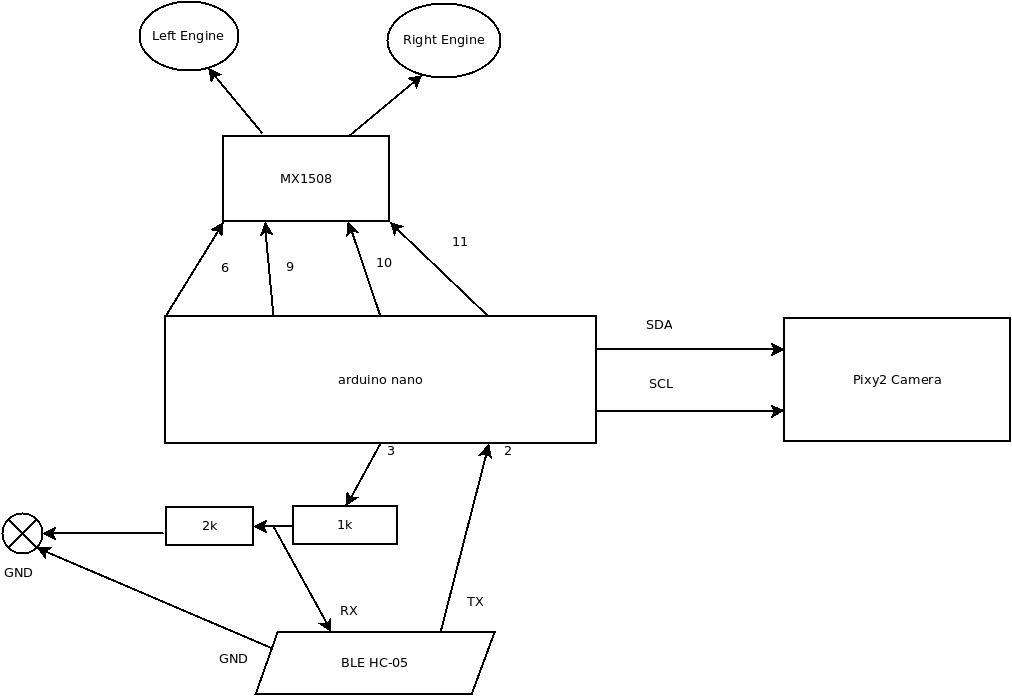
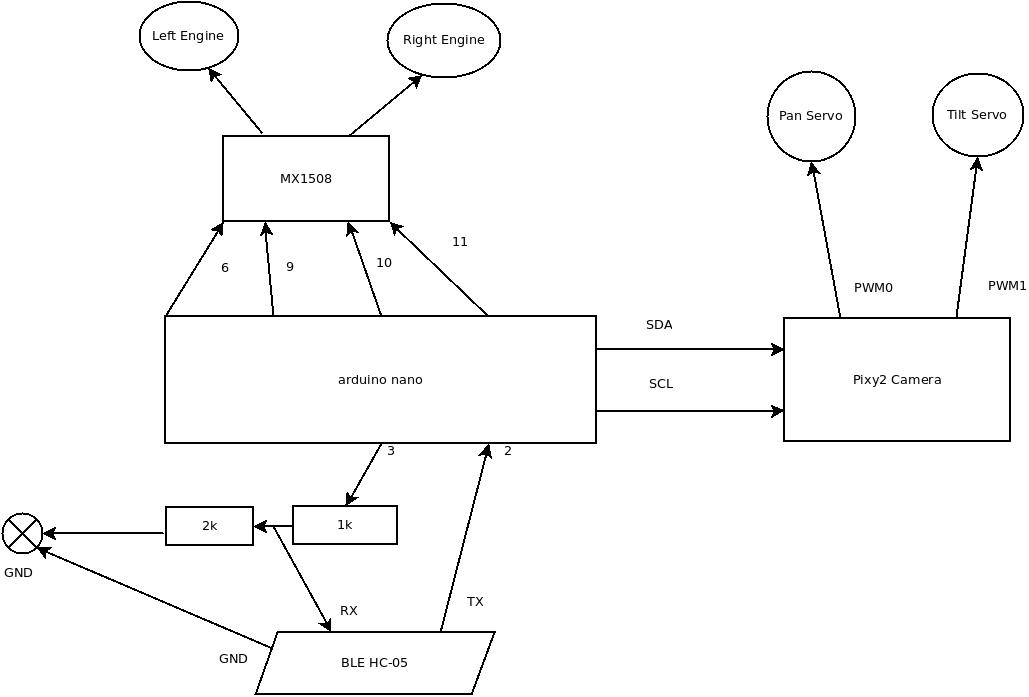
new versions to be ready for android app

diff --git a/tracking/communications.cpp b/tracking/communications.cpp
@@ -49,9 +49,7 @@ void initCommunications() {
   enableInterrupt(RxD, neoSSerial1ISR, CHANGE); 
 }
 
-static void makeCleanup() {
-  BTSerial.println("OK");
-  BTSerial.flush();
+static void makeCleanup() {  
   for (index = 0; index < 20; index++) {
     inData[index] = '\0';
   }
@@ -59,9 +57,14 @@ static void makeCleanup() {
   inChar ='0';
 }
 
+static void sendOK() {
+  BTSerial.println("OK");
+  BTSerial.flush();
+}
+
 void printMenuOnBLE() {
   BTSerial.println( "MENU:" );
-  BTSerial.println( "h# print this menu");
+  BTSerial.println( "h# print menu");
   BTSerial.println( "S# Start" );
   BTSerial.println( "s# Stop" );
   BTSerial.println( "T# tracking on");
@@ -69,9 +72,12 @@ void printMenuOnBLE() {
   BTSerial.println( "L# lamp on/off");
   BTSerial.println( "E# engine pan tracking on/off");
   BTSerial.println( "pxx# horizontal position of camera");
-  BTSerial.println( "Pxx# Kp");
-  BTSerial.println( "Ixx# Ki");
-  BTSerial.println( "Dxx# Kd");
+  BTSerial.println( "Pxx# set Kp");
+  BTSerial.println( "P# get Kp");
+  BTSerial.println( "Ixx# set Ki");
+  BTSerial.println( "I# get Ki");
+  BTSerial.println( "Dxx# set Kd");
+  BTSerial.println( "D# get Kd");
 }
 
 
@@ -93,53 +99,74 @@ static void makeMove(const char *data) {
   } else {
      return;
   }
-  if (strcmp(realData,"s") == 0) {
+  if (strlen(realData) == 1) {
+    if (realData[0] == 's') {
 #ifdef BLE_DEBUG_MODE
-    BTSerial.println("stop");
+      BTSerial.println("stop");
 #endif
-    go(0,0);
-    isStopped = true;
-  } else if (strcmp(realData,"S") == 0) {
+      go(0,0);
+      isStopped = true;
+      sendOK();
+    } else if (realData[0] == 'S') {
 #ifdef BLE_DEBUG_MODE
-    BTSerial.println("Start");
+      BTSerial.println("Start");
 #endif
-    go(0,0);
-    isStopped = false;
-  } else if(strcmp(realData,"t") == 0) {
+      go(0,0);
+      isStopped = false;
+      sendOK();
+    } else if(realData[0] == 't') {
 #ifdef BLE_DEBUG_MODE
-    BTSerial.println("Tracking off");
+      BTSerial.println("Tracking off");
 #endif
-    isTracking = false;
-  } else if(strcmp(realData,"T") == 0) {
+      isTracking = false;
+      sendOK();
+    } else if( realData[0] == 'T') {
 #ifdef BLE_DEBUG_MODE
-    BTSerial.println("Tracking on");
+      BTSerial.println("Tracking on");
 #endif
-    lastError = 0;
-    integration = 0;
-    isTracking = true;
-  } else if (strcmp(realData,"h") == 0) {
-    printMenuOnBLE();
-  } else if (strcmp(realData,"L") == 0) {
-    if (isLampOn) {
-      // Turn off both laps upper and lower
-      pixy.setLamp(0, 0);
-    } else {
-      pixy.setLamp(1,1);
+      lastError = 0;
+      integration = 0;
+      isTracking = true;
+      sendOK();
+    } else if (realData[0] == 'h') {
+      printMenuOnBLE();
+    } else if (realData[0] =='L') {
+      if (isLampOn) {
+        // Turn off both laps upper and lower
+        pixy.setLamp(0, 0);
+      } else {
+        pixy.setLamp(1,1);
+      }
+      isLampOn = !isLampOn;
+      sendOK();
+    } else if (realData[0] == 'E') {
+      isEngineTracking = !isEngineTracking;
+#ifdef BLE_DEBUG_MODE
+      if (isEngineTracking)
+        BTSerial.println("Engine tracking on");
+      else
+        BTSerial.println("Engine tracking off");
+#endif
+      sendOK();
+    } else if ( realData[0] == 'P') {
+      BTSerial.println(Kp);
+      BTSerial.flush();
+      return;
+    } else if ( realData[0] == 'I') {
+      BTSerial.println(Ki);
+      BTSerial.flush();
+      return;
+    } else if ( realData[0] == 'D') {
+      BTSerial.println(Kd);
+      BTSerial.flush();
+      return;
     }
-    isLampOn = !isLampOn;
-  } else if (strcmp(realData,"E") == 0) {
-    isEngineTracking = !isEngineTracking;
-#ifdef BLE_DEBUG_MODE
-    if (isEngineTracking)
-      BTSerial.println("Engine tracking on");
-    else
-      BTSerial.println("Engine tracking off");
-#endif
-  }else if (strlen(realData) > 1) {
+  } else { //commands with data
     if (realData[0] == 'p') {
       //remove p from command
       realData++;
       if (!isValidNumber(realData)) {
+        sendOK();
         return;
       }
       tempIValue = atoi(realData);
@@ -147,6 +174,7 @@ static void makeMove(const char *data) {
           pixy.setServos(tempIValue,500);
           panServoPos = tempIValue;
       } else {
+        sendOK();
         return;
       }
     } else if (realData[0] == 'P') {
@@ -161,6 +189,7 @@ static void makeMove(const char *data) {
       integration = 0;
       tiltLoop.reset();
       pixy.setServos(panServoPos, tiltLoop.m_command);
+      sendOK();
     } else if (realData[0] == 'D') {
       //remove D from command
       realData++;
@@ -173,6 +202,7 @@ static void makeMove(const char *data) {
       integration = 0;
       tiltLoop.reset();
       pixy.setServos(panServoPos, tiltLoop.m_command);
+      sendOK();
     } else if (realData[0] == 'I') {
       //remove I from command
       realData++;
@@ -185,6 +215,7 @@ static void makeMove(const char *data) {
       integration = 0;
       tiltLoop.reset();
       pixy.setServos(panServoPos, tiltLoop.m_command);
+      sendOK();
     }
   }
 }

diff --git a/automove/communications.cpp b/automove/communications.cpp
@@ -59,15 +59,15 @@ static void makeCleanup() {
 }
 
 void printMenuOnBLE() {
+  BTSerial.println("h# print menu");
   BTSerial.println("s# stop/start");
   BTSerial.println("l# lights on");
   BTSerial.println("a# autocalibration");
   BTSerial.println("L# left with turn90 delay");
   BTSerial.println("R# right with turn90 delay");
   BTSerial.println("txxx# set turn90");
-  BTSerial.println("sxxx,xxx# set servo up/left");
+  BTSerial.println("sxxx,xxx# set servo tilt,pan");
   BTSerial.println("vxxx# set the current power");
-  BTSerial.println("p# print menu");
 }
 
 
@@ -86,36 +86,39 @@ static void makeMove(char *data) {
   char *realData = data;
   if (strlen(realData) > 0) {
     realData[strlen(realData) -1] = '\0';
+  } else {
+    return;
   }
-  if (strcmp(realData,"s") == 0) {
-    isStopped = !isStopped;
+  if (strlen(realData) == 1) {
+    if (realData[0] == 's') {
+      isStopped = !isStopped;
 #ifdef BLE_DEBUG_MODE
-    if (isStopped)
-      BTSerial.println("stop");
-    else
-      BTSerial.println("start again");
+      if (isStopped)
+        BTSerial.println("stop");
+      else
+        BTSerial.println("start again");
 #endif
-    go(0,0);
-  } else if (strcmp(realData,"l") == 0) {
-    lightsOn != lightsOn;
-    if (lightsOn)
-      pixy.setLamp(1, 1);
-  } else if (strcmp(realData,"a") == 0) {
-    autocalibrationCamera();
-  } else if (strcmp(realData,"L") == 0) {
-    go(-currentPower,currentPower);
-    delay(turn90);
-    go(0,0);
-  } else if (strcmp(realData,"R") == 0) {
-    go(currentPower,-currentPower);
-    delay(turn90);
-    go(0,0);
-  } else if (strcmp(realData,"p") == 0) {
+      go(0,0);
+    } else if (realData[0] == 'l') {
+      lightsOn != lightsOn;
+      if (lightsOn)
+        pixy.setLamp(1, 1);
+    } else if (realData[0] == 'a') {
+      autocalibrationCamera();
+    } else if (realData[0] == 'L') {
+      go(-currentPower,currentPower);
+      delay(turn90);
+      go(0,0);
+    } else if (realData[0] == 'R') {
+      go(currentPower,-currentPower);
+      delay(turn90);
+      go(0,0);
+    } else if (realData[0] == 'h') {
 #ifdef BLE_DEBUG_MODE    
-    printMenuOnBLE();
+      printMenuOnBLE();
 #endif    
-  }
-  else if (strlen(realData) > 1) {
+    }
+  } else {
     if (realData[0] == 'v') {
         realData++;
         if (!isValidNumber(realData)) {

diff --git a/README.md b/README.md
@@ -9,10 +9,39 @@ Droid using pixy2 camera
 
 Pixy2 camera is used for Tracking using PID for engines (left/right) or servos.
 
+### Commands:
+
+h# print the menu
+
+S# Start
+
+s# Stop
+
+T# tracking on
+
+t# tracking off
+
+L# lamp on/off
+
+E# engine pan tracking on/off
+
+pxx# horizontal position of camera
+
+Pxx# set Kp
+
+P# get Kp
+
+Ixx# set Ki
+
+I# get Ki
+
+Dxx# set Kd
+
+D# get Kd
 
 ## AutoMove
 
-Pixy2 camera is used to read bare codes form the ground, those code instruct the droid how to move.
+Pixy2 camera is used to read bar codes from the ground, those code instruct the droid how to move.
 
 0 is left
 
@@ -23,3 +52,40 @@ Pixy2 camera is used to read bare codes form the ground, those code instruct the
 5 is right
 
 6 is delay (stop 10000 ms)
+
+### Commands:
+
+h# print menu
+
+s# stop/start
+
+l# lights on
+
+a# autocalibration
+
+L# left with turn90 delay
+
+R# right with turn90 delay
+
+txxx# set turn90
+
+sxxx,xxx# set servo tilt,pan
+
+vxxx# set the current power
+
+## PIXY2 links
+
+[pixy2 pinout](https://docs.pixycam.com/wiki/doku.php?id=wiki:v2:port_pinouts)
+
+[pixy2 power](https://docs.pixycam.com/wiki/doku.php?id=wiki:v2:powering_pixy)
+
+[pixy2 general api](https://docs.pixycam.com/wiki/doku.php?id=wiki:v2:general_api)
+
+[pixy2 line api](https://docs.pixycam.com/wiki/doku.php?id=wiki:v2:line_api)
+
+[pixy2 line tracking](https://docs.pixycam.com/wiki/doku.php?id=wiki:v2:line_tracking)
+
+[pixy2 github](https://github.com/charmedlabs/pixy2)
+
+[all barcodes](https://github.com/charmedlabs/pixy2/raw/master/documents/other/all_codes.pdf)
+
